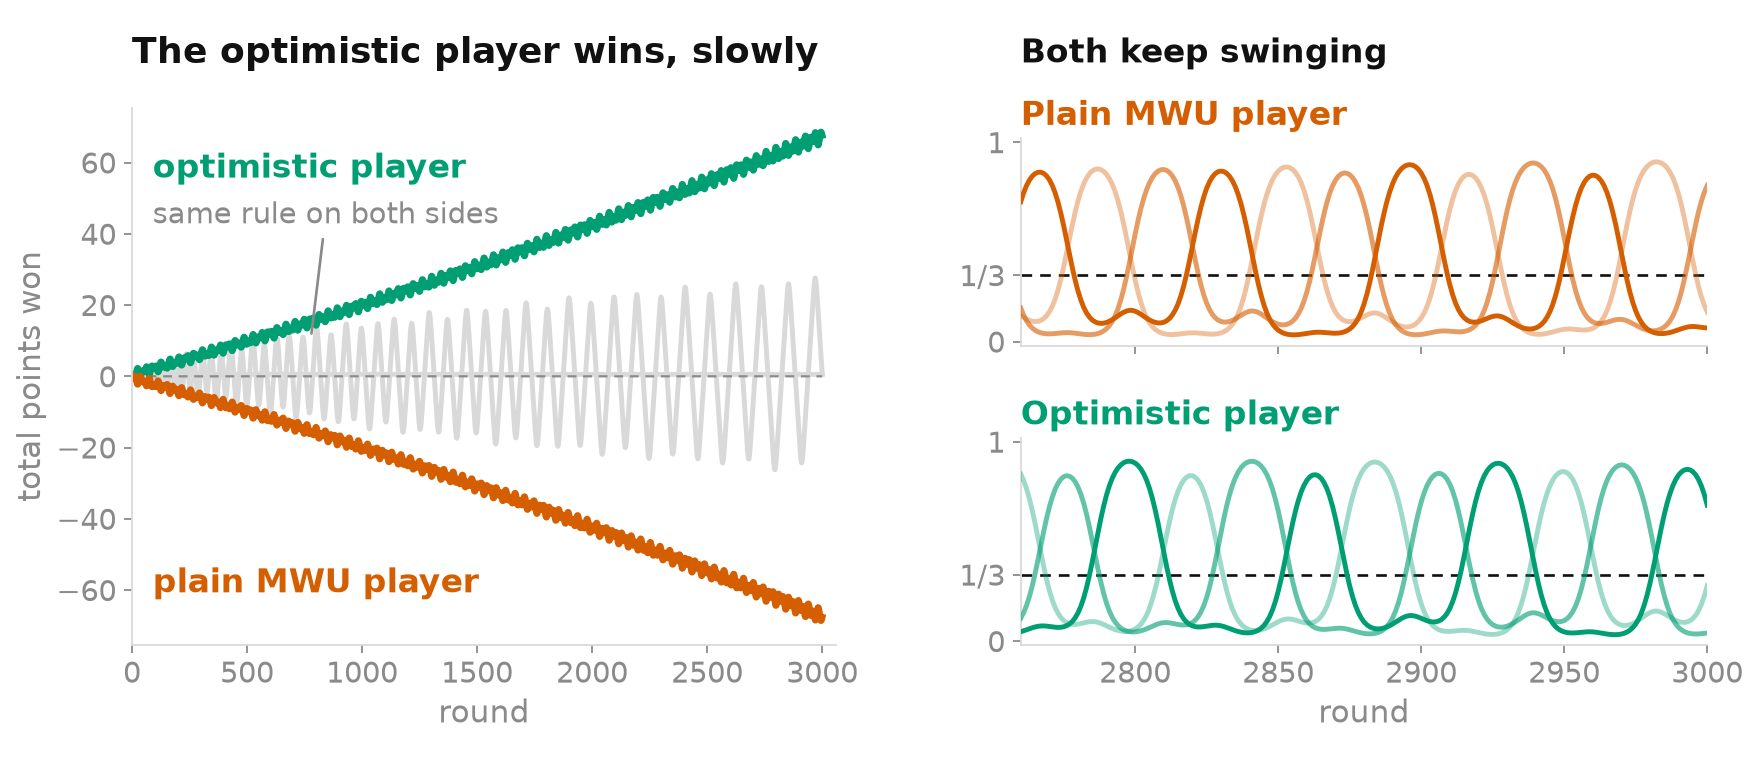
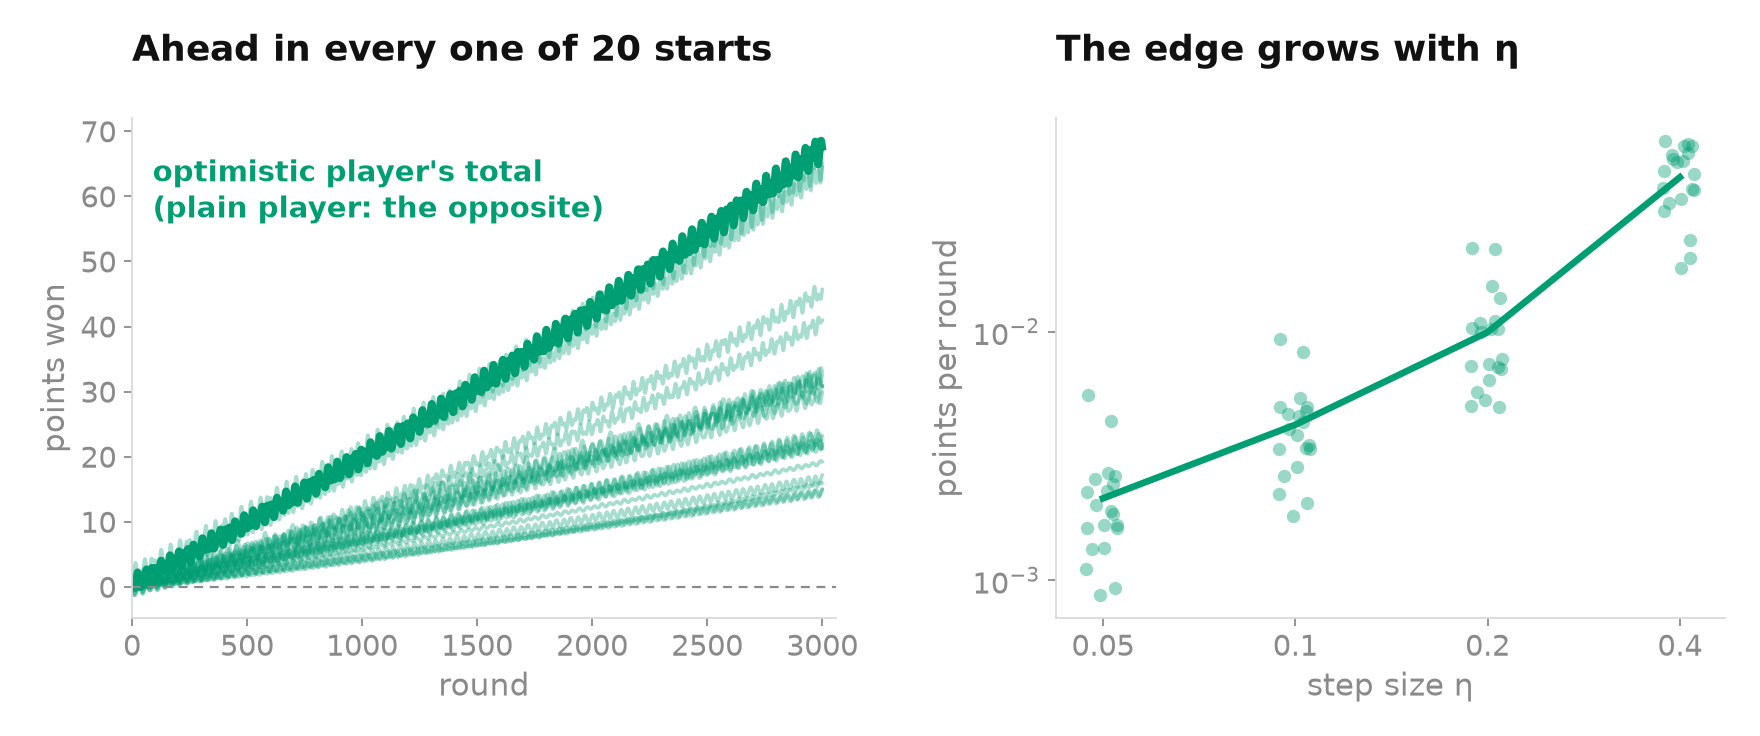
Sketch: shorter head-to-head section with a clearer figure, bold instead of the blue bar

diff --git a/sketches/mwu-rps/index.html b/sketches/mwu-rps/index.html
@@ -13,7 +13,7 @@
   <meta name="twitter:card" content="summary_large_image">
   <link rel="icon" href="../../assets/img/favicon.svg" type="image/svg+xml">
   <link rel="preload" href="../../assets/fonts/stix-400.woff2" as="font" type="font/woff2" crossorigin>
-  <link rel="stylesheet" href="../../assets/css/style.css?v=28">
+  <link rel="stylesheet" href="../../assets/css/style.css?v=29">
 </head>
 <body class="sk">
 <div class="layout">
@@ -59,7 +59,8 @@
         <h3 class="sk-sec" id="why">2. Why study it</h3>
         <p>The equilibrium of this game is known, and playing uniformly at random reaches it on the first move. So the goal is not to find 1/3. The game is a test tube: since we know the right answer, we can see what learners do when they do not. The question is what happens when two players who only see their own payoffs keep adapting to each other.</p>
         <p>Real games are bigger: poker, auctions, markets, the two networks of a GAN. Nobody can write their equilibrium down, and rules of this family are used to approach it from payoffs alone. Two things then matter. One is whether the strategy actually being played settles down. In a real system what runs is the current strategy, and averaging past ones is often impossible (try averaging two neural networks). The other is how many rounds this takes.</p>
-        <p class="sk-key">Uniform play is also passive. It earns exactly 0 against anyone and never profits from a habit. That is the price of sitting at the equilibrium: it is safe, but it cannot exploit a player who strays from it, because exploiting means leaving it, and a player who leaves it can be exploited in turn. MWU takes that risk in small steps, and only as far as the payoffs justify. It knows nothing about the game and still ends up close to the best single move in hindsight: against an opponent who plays rock half the time, it finds paper on its own. Real opponents (a pricing bot, a trader, a poker player) have habits, so this is the case that matters.</p>
+        <p>Uniform play is also passive. It earns exactly 0 against anyone and never profits from a habit. That is the price of sitting at the equilibrium: <strong>it is safe, but it cannot exploit a player who strays from it</strong>, because exploiting means leaving it, and a player who leaves it can be exploited in turn.</p>
+        <p>MWU takes that risk in small steps, and only as far as the payoffs justify. It knows nothing about the game and still ends up close to the best single move in hindsight: against an opponent who plays rock half the time, <strong>it finds paper on its own</strong>. Real opponents (a pricing bot, a trader, a poker player) have habits, so this is the case that matters.</p>
         <figure class="sk-fig-s">
           <img src="figure-uniform.png" width="1760" height="704" alt="Left: against an opponent who favours rock, MWU puts its probability on paper within about 40 rounds. Right: its average payoff per round climbs from 0 to 0.3, the best single move, while uniform play stays at exactly zero.">
           <figcaption>The opponent plays rock 50%, paper 30%, scissors 20% every round; η = 0.2, first 80 rounds shown. Paper beats rock more often than it loses to scissors, so it earns 0.3 per round on average, and MWU finds this from payoffs alone. Uniform play earns exactly 0 whatever the opponent does. Over 600 rounds, MWU ends within 6 points of the best single move in hindsight.</figcaption>
@@ -107,12 +108,12 @@
         <p><span class="c-red">Plain MWU does not settle.</span> The strategy spirals out to the edge of the triangle. The KL divergence to Nash, a measure of the distance between two probability vectors, grows at every round. In the default run it goes from 0.63 to 5.0 in 400 rounds, and one player ends up playing scissors 94% of the time. <span class="c-blue">The average does settle.</span> It is within 0.03 of (1/3, 1/3, 1/3) after 400 rounds, and in general within about η + 1/(ηT) of it. <span class="c-green">Optimistic MWU settles too</span>, with no averaging: the KL divergence falls from 0.63 to 0.003.</p>
 
         <h3 class="sk-sec" id="duel">5. Different rules</h3>
-        <p>If the point is how learners adapt to each other, they should also meet learners that adapt differently. So I made plain MWU play against optimistic MWU, with the same η and the same starting points as above.</p>
-        <p>Neither of them settles at Nash. Both keep swinging between nearly 0 and nearly 1, like plain MWU does against itself. But the optimistic player comes out ahead. In this run it wins 68 points over 3000 rounds, while the same rule on both sides stays around 0, up to the swings of the loops. This is not an accident of the start: I tried 20 random starting points for each of η = 0.05, 0.1, 0.2 and 0.4, and the optimistic player finished ahead in all 80 runs. The gain is small, about 0.01 points per round at η = 0.2 (0.002 at η = 0.05, 0.04 at η = 0.4). It is also consistent with the guarantee above, since the plain player's loss stays well below the regret bound. My reading is the lateness again: the optimistic player answers where the plain one is heading, and the plain one answers where the optimistic one was.</p>
+        <p>If the point is how learners adapt to each other, they should also meet learners that adapt differently. So I made optimistic MWU play against plain MWU, with the same η. Neither settles at Nash, but the optimistic player wins, by a little, in all 80 runs I tried.</p>
+        <p>Why? <strong>The optimistic player answers where the opponent is heading, while the plain one answers where the opponent was.</strong> That is the lateness of section 3, and it now costs points. I did not prove it; it fits the check that the optimistic player's moves are on average closer to a best response to the opponent's current strategy.</p>
       </div>
       <figure class="sk-fig-s sk-fig-wide">
-        <img src="figure-duel.png" width="1760" height="768" alt="Left: total points of an optimistic MWU player against a plain MWU player over 3000 rounds, growing steadily for the optimistic one, while the same rule on both sides stays near zero. Right: the probabilities of each move for both players over the last 240 rounds, swinging between 0 and 1.">
-        <figcaption>Optimistic MWU (player 1) against plain MWU (player 2), η = 0.2, 3000 rounds. Left: total points won. The grey curve is the same rule on both sides, which wanders around 0. Right: the probability of each move for both players, in the last 240 rounds.</figcaption>
+        <img src="figure-duel.png" width="1760" height="736" alt="Left: total points of the optimistic MWU player against plain MWU over 3000 rounds, for 20 starting points, all rising. Right: points per round gained by the optimistic player for four step sizes, growing with the step size.">
+        <figcaption>Optimistic MWU against plain MWU. The game is zero-sum, so the plain player's total is the opposite of the one drawn. Left: η = 0.2, 3000 rounds, 20 random starting points; the thick line is the start used above. Right: points per round for η from 0.05 to 0.4 (20 starts each, line: mean).</figcaption>
       </figure>
 
       <div class="sk-body">

diff --git a/projects.html b/projects.html
@@ -10,7 +10,7 @@
   <meta property="og:description" content="Projects of Raphaël Padiou: polynomial portfolio optimization with the Lasserre hierarchy.">
   <link rel="icon" href="assets/img/favicon.svg" type="image/svg+xml">
   <link rel="preload" href="assets/fonts/stix-400.woff2" as="font" type="font/woff2" crossorigin>
-  <link rel="stylesheet" href="assets/css/style.css?v=28">
+  <link rel="stylesheet" href="assets/css/style.css?v=29">
 </head>
 <body>
 <div class="layout">

diff --git a/sketches/index.html b/sketches/index.html
@@ -11,7 +11,7 @@
   <meta property="og:url" content="https://rpadiou.github.io/sketches/">
   <link rel="icon" href="../assets/img/favicon.svg" type="image/svg+xml">
   <link rel="preload" href="../assets/fonts/stix-400.woff2" as="font" type="font/woff2" crossorigin>
-  <link rel="stylesheet" href="../assets/css/style.css?v=28">
+  <link rel="stylesheet" href="../assets/css/style.css?v=29">
 </head>
 <body class="sk">
 <div class="layout">

diff --git a/cv.html b/cv.html
@@ -10,7 +10,7 @@
   <meta property="og:description" content="Curriculum vitae of Raphaël Padiou.">
   <link rel="icon" href="assets/img/favicon.svg" type="image/svg+xml">
   <link rel="preload" href="assets/fonts/stix-400.woff2" as="font" type="font/woff2" crossorigin>
-  <link rel="stylesheet" href="assets/css/style.css?v=28">
+  <link rel="stylesheet" href="assets/css/style.css?v=29">
 </head>
 <body>
 <div class="layout">

diff --git a/index.html b/index.html
@@ -11,7 +11,7 @@
   <meta property="og:url" content="https://rpadiou.github.io/">
   <link rel="icon" href="assets/img/favicon.svg" type="image/svg+xml">
   <link rel="preload" href="assets/fonts/stix-400.woff2" as="font" type="font/woff2" crossorigin>
-  <link rel="stylesheet" href="assets/css/style.css?v=28">
+  <link rel="stylesheet" href="assets/css/style.css?v=29">
 </head>
 <body>
 <div class="layout">

diff --git a/assets/css/style.css b/assets/css/style.css
@@ -240,6 +240,3 @@ html.lens-open { overflow: hidden; }
 .sk [id] { scroll-margin-top: 1rem; }
 html { scroll-behavior: smooth; }
 @media (prefers-reduced-motion: reduce) { html { scroll-behavior: auto; } }
-
-/* a point worth remembering */
-.sk p.sk-key { border-left: 3px solid var(--accent); background: rgba(31,78,140,.06); padding: .7rem 1rem; margin: 1.4rem 0; border-radius: 0 6px 6px 0; }

diff --git a/sketches/mwu-rps/code/mwu_rps.py b/sketches/mwu-rps/code/mwu_rps.py
@@ -153,6 +153,7 @@ def verify(r):
     assert eo[-1] < 0.2 * em[-1]
     # Head to head: optimistic player (1) against plain MWU player (2), 4 step sizes x 20 starting points
     duel_rates = {}
+    short_opt, short_plain = [], []
     for eta in (0.05, 0.1, 0.2, 0.4):
         T_ = int(600 / eta); rates = []
         for sd in range(20):
@@ -162,7 +163,11 @@ def verify(r):
             assert tot[-1] > 0, (eta, sd)                                      # optimistic player ends ahead
             assert tot[-1] < np.log(3) / eta + eta * T_ / 2, (eta, sd)         # plain MWU's loss within Hedge's regret bound
             rates.append(tot[-1] / T_)
+            Xq, Yq, _ = duel(eta, T_, True, False, xa, ya)                    # who plays closer to a best response?
+            gx_, gy_ = Yq @ A.T, -(Xq @ A)
+            short_opt.append(np.mean(gx_.max(1) - np.sum(Xq * gx_, 1))); short_plain.append(np.mean(gy_.max(1) - np.sum(Yq * gy_, 1)))
         duel_rates[str(eta)] = dict(T=T_, mean=float(np.mean(rates)), min=float(np.min(rates)), max=float(np.max(rates)))
+    assert np.mean(short_opt) < np.mean(short_plain)                              # optimistic player is closer to a best response
     Xd, Yd, totd = duel(ETA, DUEL_T, True, False, r["x0"], r["y0"])
     tail = slice(DUEL_T // 2, None)
     kx, ky = kl_nash(Xd)[tail], kl_nash(Yd)[tail]
@@ -346,51 +351,49 @@ def uniform_figure(path, eta=0.2, T=80):
     fig.savefig(path, facecolor=th["bg"]); plt.close(fig)
 
 
-def duel_figure(path, r, eta=ETA, T=DUEL_T, window=240):
-    """Left: player 1's total points in four pairings. Right: the optimistic-vs-plain pairing on the triangle."""
+def duel_figure(path, r, eta=ETA, T=DUEL_T):
+    """Optimistic player (1) against plain MWU (2). The game is zero-sum, so one player's total is the other's
+    opposite: only the optimistic player's total is drawn. Left: 20 starting points. Right: gain per round vs eta."""
     th = THEMES["light"]
     plt.rcParams["font.family"] = "DejaVu Sans"
-    Xd, Yd, tot = duel(eta, T, True, False, r["x0"], r["y0"])        # optimistic (1) vs plain (2)
-    _, _, tm = duel(eta, T, False, False, r["x0"], r["y0"])
-    _, _, to = duel(eta, T, True, True, r["x0"], r["y0"])
-    t = np.arange(T + 1)
-    fig = plt.figure(figsize=(11, 4.8), dpi=160, facecolor=th["bg"])
-    ax = fig.add_axes([.075, .16, .40, .70], facecolor=th["bg"])
-    for s_ in ("top", "right"):
-        ax.spines[s_].set_visible(False)
-    for s_ in ("left", "bottom"):
-        ax.spines[s_].set_color(th["faint"])
-    ax.tick_params(colors=th["grey"], labelsize=13)
-    ax.plot(t, tm, color=th["faint"], lw=2.2); ax.plot(t, to, color=th["faint"], lw=2.2)
-    ax.plot(t, 0 * t, color=th["grey"], lw=1, ls=(0, (4, 3)))
-    ax.plot(t, tot, color=GREEN, lw=3); ax.plot(t, -tot, color=RED, lw=3)
-    ax.set_xlim(0, T * 1.02)
-    ax.text(T * .03, tot[-1] * .93, "optimistic player", color=GREEN, fontsize=15, fontweight="bold", va="top")
-    ax.text(T * .03, -tot[-1] * .93, "plain MWU player", color=RED, fontsize=15, fontweight="bold", va="bottom")
-    ax.annotate("same rule on both sides", xy=(T * .26, 12), xytext=(T * .03, 41), color=th["grey"], fontsize=13, va="bottom",
-                arrowprops=dict(arrowstyle="-", color=th["grey"], lw=1.2, shrinkA=2, shrinkB=0))
-    ax.set_xlabel("round", color=th["grey"], fontsize=14); ax.set_ylabel("total points won", color=th["grey"], fontsize=14)
-    fig.text(.075, .93, "The optimistic player wins, slowly", color=th["fg"], fontsize=16, fontweight="bold", va="center")
-    for k, (title, P, col) in enumerate((("Plain MWU player", Yd, RED),
-                                         ("Optimistic player", Xd, GREEN))):
-        axk = fig.add_axes([.58, .55 - k * .39, .39, .27], facecolor=th["bg"])
-        tt = np.arange(T - window, T + 1)
-        axk.axhline(1 / 3, color=th["fg"], lw=1.2, ls=(0, (4, 3)), zorder=1)
-        for i, al in enumerate((1.0, .62, .38)):
-            axk.plot(tt, P[-window - 1:, i], color=col, lw=2.2, alpha=al, zorder=3)
-        axk.set_ylim(-.02, 1.02); axk.set_xlim(tt[0], tt[-1])
-        axk.set_yticks([0, 1 / 3, 1]); axk.set_yticklabels(["0", "1/3", "1"])
+    fig = plt.figure(figsize=(11, 4.6), dpi=160, facecolor=th["bg"])
+    axes = [fig.add_axes([.075, .16, .40, .68], facecolor=th["bg"]), fig.add_axes([.60, .16, .38, .68], facecolor=th["bg"])]
+    for ax in axes:
         for s_ in ("top", "right"):
-            axk.spines[s_].set_visible(False)
+            ax.spines[s_].set_visible(False)
         for s_ in ("left", "bottom"):
-            axk.spines[s_].set_color(th["faint"])
-        axk.tick_params(colors=th["grey"], labelsize=13)
-        if k == 0: axk.set_xticklabels([])
-        else: axk.set_xlabel("round", color=th["grey"], fontsize=14)
-        axk.set_title(title, loc="left", color=col, fontsize=15, fontweight="bold", pad=6)
-    fig.text(.58, .93, "Both keep swinging", color=th["fg"], fontsize=15, fontweight="bold", va="center")
+            ax.spines[s_].set_color(th["faint"])
+        ax.tick_params(colors=th["grey"], labelsize=13)
+    ax, bx = axes
+    t = np.arange(T + 1)
+    for sd in range(20):
+        g = np.random.default_rng(100 + sd)
+        _, _, tot = duel(eta, T, True, False, g.dirichlet([2, 2, 2]), g.dirichlet([2, 2, 2]))
+        ax.plot(t, tot, color=GREEN, lw=1.6, alpha=.35)
+    _, _, tot = duel(eta, T, True, False, r["x0"], r["y0"])
+    ax.plot(t, tot, color=GREEN, lw=3.4)
+    ax.axhline(0, color=th["grey"], lw=1, ls=(0, (4, 3)))
+    ax.set_xlim(0, T * 1.02)
+    ax.text(T * .03, ax.get_ylim()[1] * .92, "optimistic player's total\n(plain player: the opposite)", color=GREEN, fontsize=13, fontweight="bold", va="top", linespacing=1.25)
+    ax.set_xlabel("round", color=th["grey"], fontsize=14); ax.set_ylabel("points won", color=th["grey"], fontsize=14)
+    fig.text(.075, .93, "Ahead in every one of 20 starts", color=th["fg"], fontsize=16, fontweight="bold", va="center")
+    etas = (0.05, 0.1, 0.2, 0.4); means = []
+    for k, e in enumerate(etas):
+        T_ = int(600 / e); rates = []
+        for sd in range(20):
+            g = np.random.default_rng(100 + sd)
+            _, _, tt = duel(e, T_, True, False, g.dirichlet([2, 2, 2]), g.dirichlet([2, 2, 2]))
+            rates.append(tt[-1] / T_)
+        jit = np.exp(np.random.default_rng(0).uniform(-.06, .06, 20))
+        bx.plot(e * jit, rates, "o", color=GREEN, alpha=.4, ms=6, mew=0)
+        means.append(np.mean(rates))
+    bx.plot(etas, means, "-", color=GREEN, lw=3)
+    bx.set_xscale("log"); bx.set_yscale("log")
+    bx.set_xticks(etas); bx.set_xticklabels([str(e) for e in etas]); bx.minorticks_off()
+    bx.set_xlabel("step size η", color=th["grey"], fontsize=14); bx.set_ylabel("points per round", color=th["grey"], fontsize=14)
+    fig.text(.60, .93, "The edge grows with η", color=th["fg"], fontsize=16, fontweight="bold", va="center")
     fig.savefig(path, facecolor=th["bg"]); plt.close(fig)
-    return tot[-1], tm[-1], to[-1]
+    return tot[-1]
 
 
 if __name__ == "__main__":
